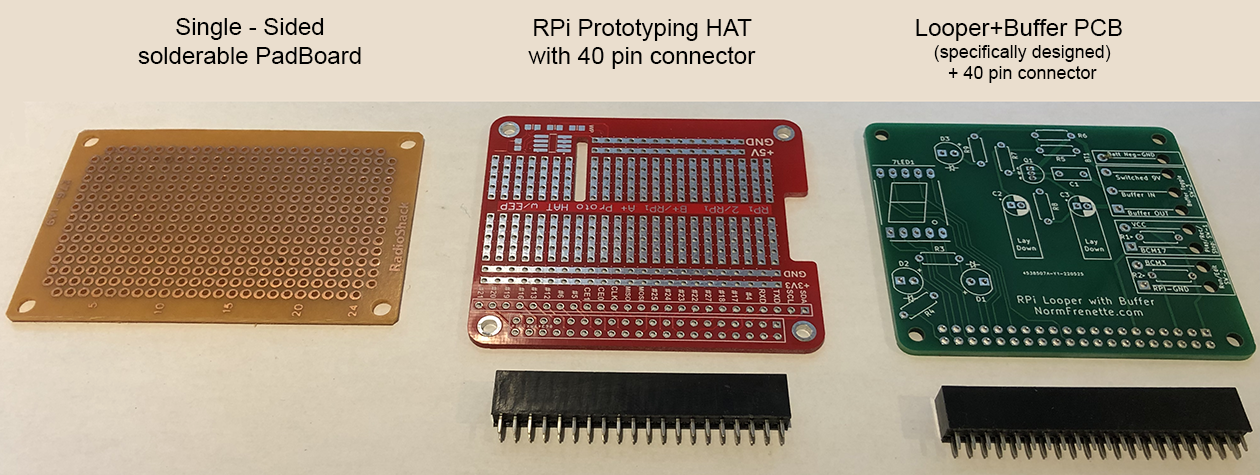
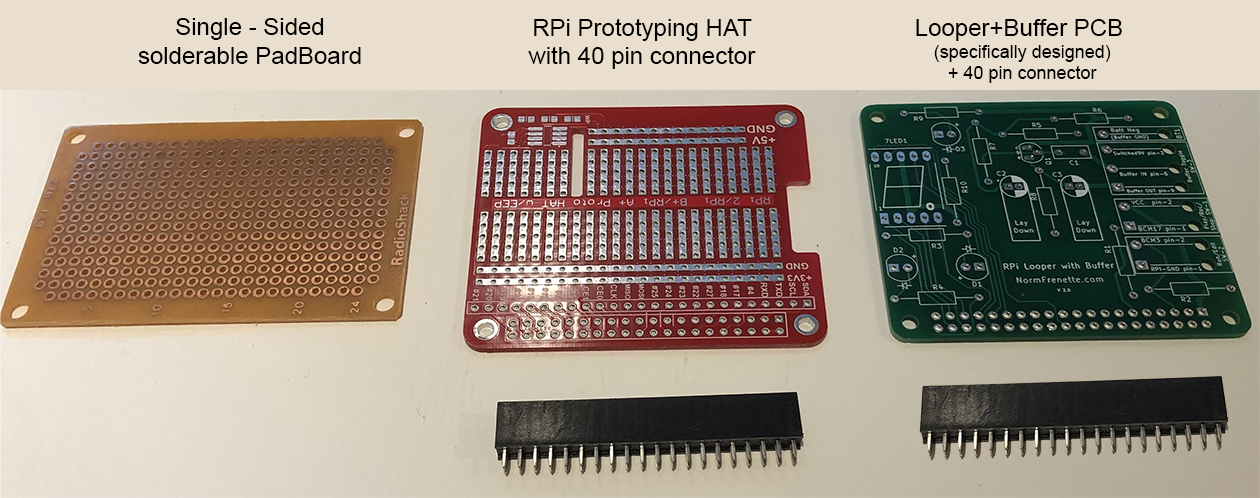
updated assembly of looper

diff --git a/content/blog/Looper/assembly-circuits/index.md b/content/blog/Looper/assembly-circuits/index.md
@@ -5,25 +5,32 @@ description: instructions, details and picture of the circuit board assembly
 mainTag: How-to-Build-it
 ---
 
-This might be a long page - I assemble the circuits and take lots of pictures.  Hope it is useful...
+These assembly instructions are for the Looper Pedal with buffer Option.  There are other [options](/Looper/How-to-Build-it-design-options/#sectionTop),
+but they are simpler so you should be able to remove what you don't need from this page and still build your selected option.
 
-I am showing how to assemble the Looper Pedal (with buffer) Option.  There are other [options](/Looper/How-to-Build-it-design-options/#sectionTop),
-but they are simpler so you should be able to remove what you don;t need from this page and still build your selected option.
+##### Step1: Select what board you are using.
 
-This pages covers two different assemblies:
-1. Looper PCB: I designed and had made a PCB for the Looper Pedal (with buffer) Option. 
-    - I can mail this to you for a small fee (cover my costs) - leave a message below if you are interested.
-2. RPI HAT Proto board - shown in [Parts List](/Looper/How-to-Build-it-parts-list/#sectionTop) 
+This pages covers details of the assembly for RPI HAT Proto board and Looper PCB:
+
+![Breadboard](../parts-list/breadboard.png)
+
+1.  RPI HAT Proto board:
     - This was my second implementation - and works fine - just a bit longer and finicky to assemble
+2. Looper PCB: I designed and had made a PCB for the Looper Pedal with buffer Option. 
+    - I can mail this to you for a small fee (cover my costs) - leave a message below if you are interested.
+3. Bare breadboard:
+    - If you are using the bare breadboard - you will do your own layout and assembly.  I suggest you look at the RPI HAT section to identify the wires that come off board (or use the schematics).  When your board is ready - skip to Step 4 - ofr the switches wiring.
+
+
+
+
+##### Step2: Get the Parts ready
+
+I recommend getting all the parts laid out, labeled as necessary before starting.  Have a tray reserved for the parts.  This may sound silly but ... when there are no parts you are done.  If a part is left... (you forgot something)
 
 > Do not worry if you see slightly different resistor and capacitor values used in the picture as compared to the current state of the schematics.  I have built a few prototypes and have modified the values sometimes from when I took the pictures.  Also - sometimes I run  out of something and I will use the nearest value available - and in most cases it does not affect performance very much.
 
-
-#### Getting the Parts ready
-
-I recommend getting all the parts laid out, labeled as necessary before starting.  I have a wooden desk that I dedicated to electronics.  If you look carefully, you can see  burnt spots from solder/soldering iron from past projects.  I recommend you don't assemble this on your Louis XIV antique table ... but to each his own.
-
-##### General Parts
+#### 2.1: General Parts
 
 (Note: this picture shows the RPI Proto Hat - replace with Looper PCB if you have it - everything else is the same.)
 
@@ -48,7 +55,7 @@ I recommend getting all the parts laid out, labeled as necessary before starting
     - Solder iron.  20 years ago I invested in a nice one with temperature control, but it's a bit overkill for this project.  A standard solder iron is just fine.  Make sure you get a sponge though - to clean the tip often...
     > Sad news - after 20 years, the transformer burned out in my solder station.  The cost of a new transformer is pretty much that of a new station.  I did not want to spend another $100 on this - so I just got a $20 no-name 40W solder iron at home depot.  It is just fine.  You DO NOT need a fancy work station for this kind of thru-hole soldering.
 
-##### Small Electronics components
+##### 2.2 Small Electronics components
 
 I don't know about you - but my small electronics component do not like my table, and at the first opportunity they jump off and go hide under the couch or the bookcase.  So over the years I have learned that if I take 5 minutes to identify them, and stick them into a white sheet of paper - I save a lot of time later. (some people like to tape them down with scotch tape - not a bad idea...)
 
@@ -56,60 +63,84 @@ I also added information for the resistor color code (in case one does falls of 
 
 ![small parts ready](./partspaper.png)
 
-> ***WARNING: Transistor pin-out:*** The above pin-out with face up of C-B-E applies to the transistor BC549.   If you are using a transistor that starts with 2N... instead of BC... then the pinout is reversed (flat face left to right would be E-B-C).  I strongly recommend that you download the datasheet of the transistor you are using (if not using BC549) - and check what pin-out applies.  It is confusing because all these transistors are offered in the same T0-92 plastic package (with flat-face), yet the pin-out is not consistent between various series...
+>Note: the component labeling (R1-R10 etc.) is used only on the Looper PCB.  For the RPI HAT - you will see below, I label the components using their value on the layout sheet.  
+
+> ***WARNING: Transistor pin-out:*** The above pin-out with flat face up of C-B-E applies to the transistor BC549.   If you are using a transistor that starts with 2N... instead of BC... then the pinout is reversed (flat face left to right would be E-B-C).  I strongly recommend that you download the datasheet of the transistor you are using (if not using BC549) - and check what pin-out applies.  It is confusing because all these transistors are offered in the same T0-92 plastic package (with flat-face), yet the pin-out is not consistent between various series...
 
 ---
 
-#### Layout/soldering of components
+##### Step 3:  Layout/soldering of components
 
-Note: Assemble all components on the board first - before soldering wires that go off-board to switches and jacks.
+General Instructions: 
+- Solder all electronics components on the board first - before soldering any wires that go off-board to switches and jacks.
+- Solder components by order of thickness (which I did not do in the pictures for the RPI HAT!!!).  Thinnest components go down first. This way when you turn the board over to solder, they are pushed against the board and do not move on you...  Resistors will go first, LED will go last.
+- Solder only 3 or 4 components at the time, then cut their legs off before doing the next batch. It's easier to work that way.  
 
-##### For Looper PCB
+##### 3.1A: Using Looper PCB
 
 Everything is laid out on the board - and numbered.  The numbering - such as R1, C1, D1 etc. corresponds to the [schematic](/Looper/How-to-Build-it-circuit-schematics/#sectionTop) - so you can refer to it in order to figure out which part does where.  
 
+>If you put all the small electronics components on a sheet per the picture above - you have already labeled the components - so not need to refer to the schematics while soldering.
+
 All you have to do is bend the leads of the parts that need it - drop them in the holes of their location - turn the board over and solder them.
-> Hint - start with the thinnest parts (like resistors) so when you turn the board over they stay put as they rest on the table.  Then move on to thicker part - in order of thickness.  You should finish with the LED and 7 segments.
->Resistors are meant to have the bend a bit away from the resistor body - to prevent cracking the body when bending
 
->  I know it's obvious - put make sure you place the 40 pin connector under the PCB - and solder the pins from the top.
+![PCB Assembly](./pcbAssy.png)
 
->Transistor: the drawing on the board shows the flat part of the transistor (aiming left - when 40 pin connector is at bottom.) the pin are labeled c,b,e for collector base and emitter.  If you are using the BC549, the part is drawn correctly and facing the flat part to the left puts the pins in the correct position.  However - if you are using a 2Nxxx part - you will have to face its flat face to the right (opposite the outline on the pcb board) - in order for the C-B-E order to match.  They key part to remember is what ever is the Collector pin on your transistor - it must go into the hole labeled C. 
+>  I know it's obvious but: make sure you place the 40 pin connector under the PCB - and solder the pins from the top. (not shown above)
 
-##### RPI HAT proto board.
+>Transistor: the drawing on the PCB shows the flat part of the transistor (aiming left - when 40 pin connector is at bottom.) The pin are labeled c,b,e for collector base and emitter.  If you are using the BC549, the part is drawn correctly and facing the flat part to the left puts the pins in the correct position.  However - if you are using a 2Nxxx part - you will have to face the flat face to the right (opposite the outline on the pcb board) - in order for the C-B-E order to match.  They key part to remember is what ever is the Collector pin on your transistor - it must go into the hole labeled C. 
 
-This layout uses the RPI HAT Proto board recommended in the parts list.  If you are using a different breadboard you will likely have to adjust the layout.
 
-![circuit pcb layout](./assemblyLayout2C.png)
-![ pcb layout Table](./layoutTable2.png)
 
-The layout is constructed using a square grid.  Individual Squares on the layout grid corresponds to a hole on the circuit board. Orient your board to match the layout.  
+##### 3.1B: Using the RPI HAT proto board.
 
-A drawn rectangle containing a number is a resistor or non-electrolytic capacitor, and the small black dots where the box starts and ends represents the holes(grid squares) where the resistor/capacitor leads go into.  
-
-LED are shown as circle of the color that match the LED.  Pay attention to the + and - orientation (to go in the correct hole underneath). The anode ( + terminal) has the longest leg of the LED.
-
-> The grid does not show the 40 pin connector.  The last grid column (right)  shows the labelled GPIO holes to solder to.  
-
-> Note that you do not solder any wires to the connector.  The RPI HAT proto board has PCB copper traces that connects the labelled row of GPIO to their actual pin on the connector. You solder your wires to the row (column?) of GPIO labeled holes.  Note also that this particular board labels the pins sometimes with their BCM naming number - sometimes with their BCM Pin role. For example BCM15 (GPIO15) which we need for the 7-Segment is labeled RXD.  I have used the RPI HAT Proto board pin labeling on the grid layout.  (refer to the GPIO naming section of the [schematic](/Looper/How-to-Build-it-circuit-schematics/#sectionTop) to see BCM pin numbers and pin roles).  
-
-Electrolytic capacitors are shown laid flat on the board - because of clearance issues.  Two leads come out of the "box" to indicate the hole where they should be soldered.  Pay attention the the negative lead indicated by three minus signs (- - -) on the box drawing - which corresponds to the negative markings on the electrolytic capacitor can.
-
-The 7-segment LED should be oriented so that the "dot" is nearest the Red LED
-
-Transistor - see note above under Looper PCB - if you are using a 2Nxxx transistor instead of BC549
-
-Squares which contain a red letter code indicate that a insulated wire must be connected to that hole - and the other end of the wire connected to a point off the board (typically a switch or an input/output jack)  - see next section.
+I learned a while back that you should layout all your parts before soldering. Do to this I print a grid that is roughly to scale and place all my components.  In our case - the RPI HAT has columns and rows that form connector strips so I try to indicated those on the grid.
 
 How do connections work:
 
-Note that the central pert of the RPI HAT Proto board as lines of 5 holes connected with solder. These are connection strip.  If two components have a leg soldered to two holes in the same strip - they become automatically connected.  
+There are rows or columns of holes connected by lead/tin (silver color). These are connection strips.  If two components have a leg soldered to two holes in the same strip - they become automatically connected (like putting a wire between them on the schematics). 
 
-Since it is note possible to have all components only connected through strips, the design runs insulated short wires from one strip to another to complete a connection.  These are the black and blue lines on the grid.  They connect the strip (and any component that ends on that strip) to another point on the board.  Just measure the actual length on the board and cut a wire - leaving just enough extra to go through the hole so you can solder on the other side. Strip the wire just enough so the insulation is almost flush to the board once the wire is inserted in the hole (to prevent wires from connecting to each other when they should not). I have run most of all my wires on the top of the board - but when needed for physical space - I run them  below.
+The trick is to try to layout the components to fit in the smallest space possible, and use these connecting columns and rows as much as possible.  
+
+> Some busses are labelled: you will see rows labeled GND and +3V3. this means that once we plug the RPI HAT into the Raspberry Pi (via the 40 pin connector) - that entire row will carry either ground (GND) or 3.3Volts (VCC on schematics).  So any component connected to one of these rows is effectively connected to either ground of VCC - per schematics.
+
+![RPI Hat Busses](./rpiHatBus.png)
+
+
+#### 3.1B-1 RPI HAT Layout
+
+This is the layout I came up with. Feel free to use it. I guarantee it matches the schematics.  However, I cannot say that it is the most optimized in terms of maximizing the use of busses and minimizing the number of wires needed to connect everything.  Feel free to improve it - and let me know if you come up with a better one so I can post here.
+
+![circuit pcb layout](./assemblyLayout2C.png)
+![ pcb layout Table](./LayoutTable2B.png)
+
+The layout is constructed using a square grid.  Individual Squares on the layout grid corresponds to a hole on the RPI Hat circuit board. Orient your board to match the layout.  
+
+A drawn rectangle containing a number is a resistor or non-electrolytic capacitor, and the small black dots where the box starts and ends represents the holes(grid squares) where the resistor/capacitor leads go into.  
+
+LEDs are shown as circle of the color that match the LED.  Pay attention to the + and - orientation (to go in the correct hole underneath). The anode ( + terminal) has the longest leg of the LED.
+
+> The grid does not show the 40 pin connector.  The last grid column (right)  shows the labelled GPIO holes to solder to.  
+
+> Note that you do not solder any wires to the connector.  The RPI HAT proto board has PCB copper traces that connects the labelled row of GPIOs to their actual pin on the connector. You solder your wires to the row (column?) of GPIO labeled holes and the 40 pin connector connects those point to the corresponding RPI GPIO.  Note also that this particular board labels the pins sometimes with their BCM naming number - sometimes with their BCM Pin role. For example BCM15 (GPIO15) which we need for the 7-Segment is labeled RXD.  I have used the RPI HAT Proto board pin labeling on the grid layout.  (refer to the GPIO naming section of the [schematic](/Looper/How-to-Build-it-circuit-schematics/#sectionTop) to see BCM pin numbers and pin roles).  
+
+Electrolytic capacitors are meant to be laid flat on the board - because of clearance issues - and their footprint on the board represents the space needed.  Two leads come out of the "capacitor box" on the layout to indicate the hole where they should be soldered.  Pay attention to the negative lead indicated by three minus signs (- - -) on the box drawing. This corresponds to the negative markings on the electrolytic capacitor can.
+
+The 7-segment LED should be oriented so that the "dot" is nearest the Red LED
+
+Transistor - see note above under Looper PCB section on how to insert it (especially if you are using  a 2Nxxx transistor instead of BC549)
+
+Squares which contain a red letter code indicate that an insulated wire must be connected to that hole - and the other end of the wire connected to a point off the board (typically a switch or an input/output jack)  - see next section.
+
+ Connections not made by connector strips:
+
+Since it is note possible to have all components only connected through strips, the layout uses insulated short wires from one strip to another to complete a connection.  These are the black and blue lines on the grid.  They connect the strip (and any component that ends on that strip) to another point on the board.  Just measure the actual length on the board and cut a wire - leaving just enough extra to go through the hole so you can solder on the other side. Strip the wire just enough so the insulation is almost flush to the board once the wire is inserted in the hole (to prevent wires from connecting to each other when they should not). I have run most of all my wires on the top of the board - but when needed for physical space - I run them  below.
+
+>Warning - Use ***insulated*** wires.  It bears repeating the obvious: the connection wires must have insulation since they run over the connector strips and cannot make contact with those (until they get to the point where they connect).
 
 Here is a sequence of photos - illustrating the process.
 
-Soldering the connector first - I stuck a spare connector on the other side of the board to give me a stable platform - then solder all 40 pins.
+Soldering the connector first - I stuck a spare connector on the other side of the board to give me a stable platform - then solder all 40 pins.  *** After I was done I realized you should do this last ***
 
 ![conector assembly](./connector.png)
 
@@ -117,21 +148,23 @@ Then start adding the electronics components in their correct location and solde
 
 ![electronics assembly](./componentsfirst.png)
 
-> You can cut legs as you go - to make it easier to solder more components.  On the other hand, if you make a mistake, and want to remove and reuse a component, leaving long legs until the end may be wise...
+> You can cut legs as you go - to make it easier to solder more components.  
 
-At this point, start laying out the connecting wires to connect the components on board.  Do not layout wires going off board yet.  If it is too tight on top - you can run some underneath (just be careful while soldering on top to not touch the iron to existing components or other wires (melting their insulation).
+Once all the components are soldered to the board,  start laying out the connecting wires to connect the components on board.  Do not layout wires going off board yet.  If it is too tight on top - you can run some underneath (just be careful while soldering on top to not touch the iron to existing components or other wires (melting their insulation).
 
 ![soldering wires on board](./wiresonboard.png)
 
 At this point the board is ready to move to the off board connections.
 
-#### Off Board connections
+#### Step 4: Off Board connections
 
 You now need to solder wires to the board that need to go off board to switches, jacks,  battery etc.  To do this - you need to have an idea of the box you will use and where you will feed the wires.  
 
-There is one constraint: The Raspberry Pi edge that has the power connector must be flat against one side of the box - so a simple hole will allow connection. 
+There is one constraint: The Raspberry Pi edge that has the power connector must be flat against one side of the box - so a simple hole will allow for the power connection. 
 
-> I suggest you lay out the components how you want them. don't forget that you have 3 dimensions. For the case I will be doing in 3-D printing - I put the battery below the RPI (there will be an access door).  This raise the RPI allowing me to slip the input jack under it.
+> I suggest you lay out the components how you want them in the box until they fit. Don't forget that you have 3 dimensions. For the case I will be doing in 3-D printing - I put the battery below the RPI (there will be an access door).  This raise the RPI allowing me to slip the input jack under it.
+
+> Also: don't forget the usb soundcard and the wires that plug into it.  Use the 3.5 mm male mono jacks from the parts lists and plug them into the usb sound card - when you are laying out your components i your box.
 
 ![component placement](./placement.png)
 
@@ -169,7 +202,7 @@ These are all the wire connections required.
 
 ![wire connections](./harness.png)
 
-Special Case for sound card:
+Special Case for sound card: 
 
 You will recall in the parts list, two male 3.5 mm mono jacks are needed to connect to the sound card - ans I suggested you buy one male to male cable and cut it in two.
 
@@ -183,7 +216,7 @@ You will recall in the parts list, two male 3.5 mm mono jacks are needed to conn
 
 Here are the finished results:
 - RPi HAT Proto (red) shown without the sound card inserted in RPi.
-- Looper PCB (V1 - green) shown with the sound card inserted into RPi.
+- Looper PCB (V1 - green) shown with the sound card inserted into RPi.  
 
 ![finished assembly](./finished.png)
 
